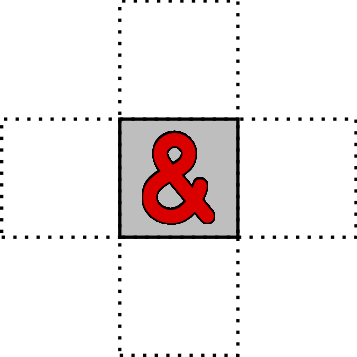
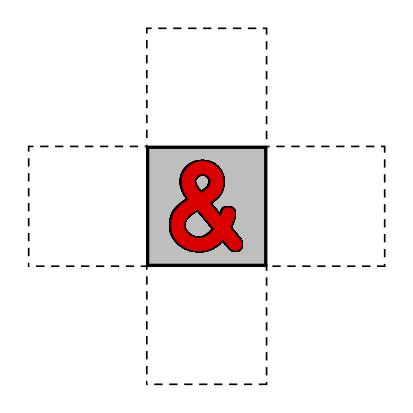
Updated images for rules write-up

diff --git a/mols.tex b/mols.tex
@@ -1,0 +1,40 @@
+\documentclass{standalone}
+
+\usepackage{grawlix}
+
+\begin{document}
+
+\begin{tikzpicture}
+
+\node[vacant] () at (-0.5,0) {};
+\node[dotter] () at (-0.5,0) {};
+
+\node[vacant] () at (0.5,0.5) {};
+\node[dotter] () at (0.5,0.5) {};
+
+\node[vacant] () at (0,0.5) {};
+\node[dotter] () at (0,0.5) {};
+
+\node[vacant] () at (0,-0.5) {};
+\node[dotter] () at (0,-0.5) {};
+
+\node[vacant] () at (0.5,-1) {};
+\node[dotter] () at (0.5,-1) {};
+
+\node[vacant] () at (1,0) {};
+\node[dotter] () at (1,0) {};
+
+\node[vacant] () at (1,-0.5) {};
+\node[dotter] () at (1,-0.5) {};
+
+\node[tile] () at (0,0) {};
+\pic () at (0,0) {ampersand={red}};
+\node[tile] () at (0.5,0) {};
+\pic () at (0.5,0) {octothorpe={blue}};
+\node[tile] () at (0.5,-0.5) {};
+\pic () at (0.5,-0.5) {asterisk={yellow}};
+
+\path (-0.875, -1.375) to (1.375, 0.875);
+\end{tikzpicture}
+
+\end{document}

diff --git a/adjacent.tex b/adjacent.tex
@@ -5,14 +5,23 @@
 \begin{document}
 
 \begin{tikzpicture}
+
+\node[vacant] () at (0.5,0) {};
+\node[dotter] () at (0.5,0) {};
+
+\node[vacant] () at (-0.5,0) {};
+\node[dotter] () at (-0.5,0) {};
+
+\node[vacant] () at (0,0.5) {};
+\node[dotter] () at (0,0.5) {};
+
+\node[vacant] () at (0,-0.5) {};
+\node[dotter] () at (0,-0.5) {};
+
 \node[tile] () at (0,0) {};
 \pic () at (0,0) {ampersand={red}};
 
-\node[draw, densely dotted, minimum height=0.5cm, minimum width=0.5cm] () at (0.5,0) {};
-\node[draw, densely dotted, minimum height=0.5cm, minimum width=0.5cm] () at (-0.5,0) {};
-\node[draw, densely dotted, minimum height=0.5cm, minimum width=0.5cm] () at (0,0.5) {};
-\node[draw, densely dotted, minimum height=0.5cm, minimum width=0.5cm] () at (0,-0.5) {};
-
+\path (-0.875,-0.875) to (0.875,0.875);
 \end{tikzpicture}
 
 \end{document}
